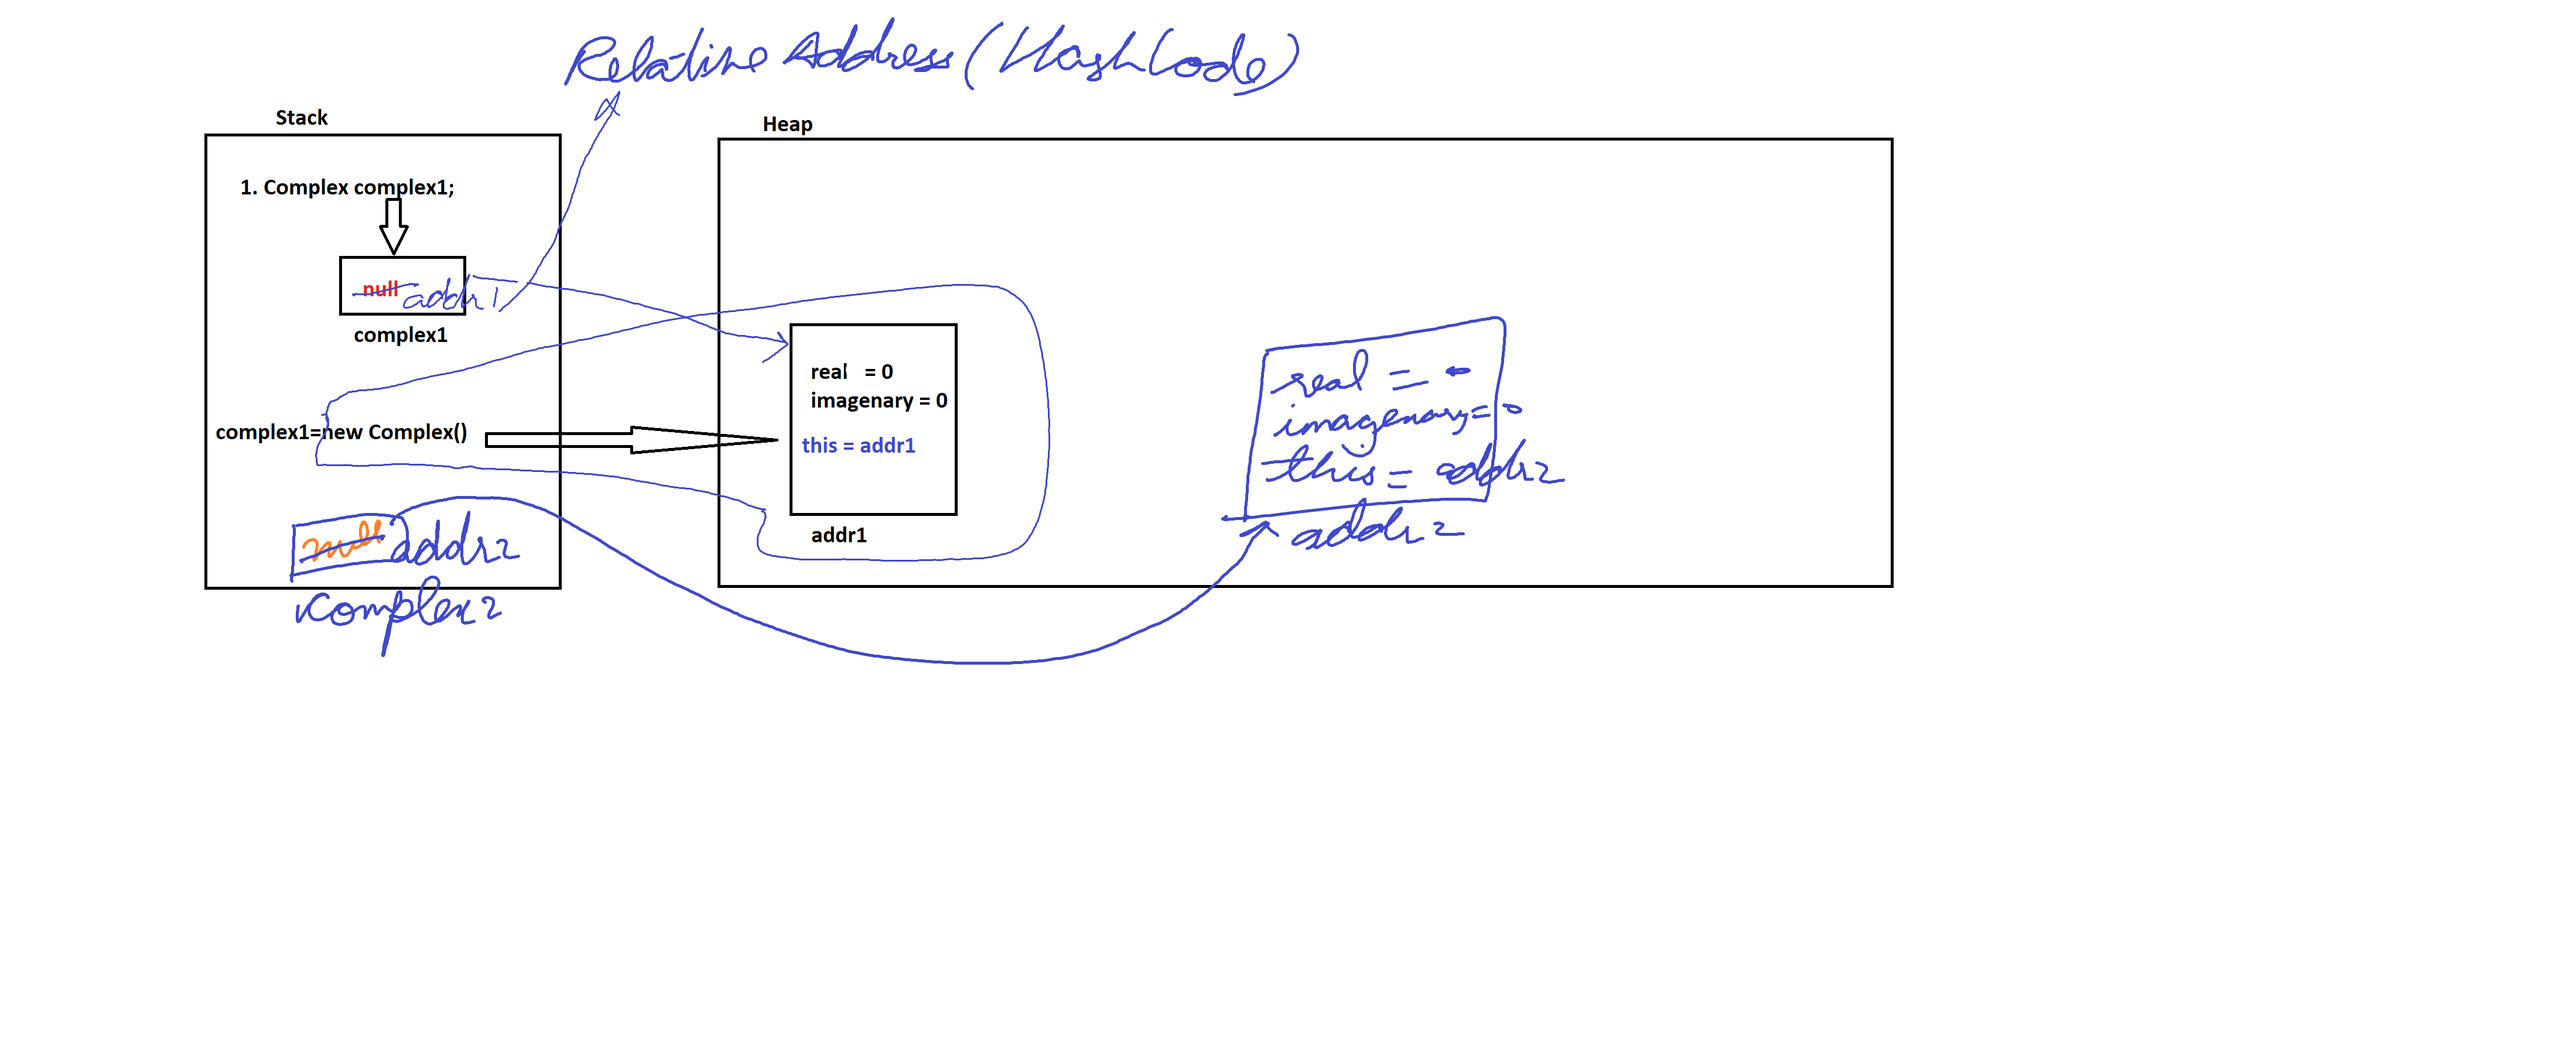
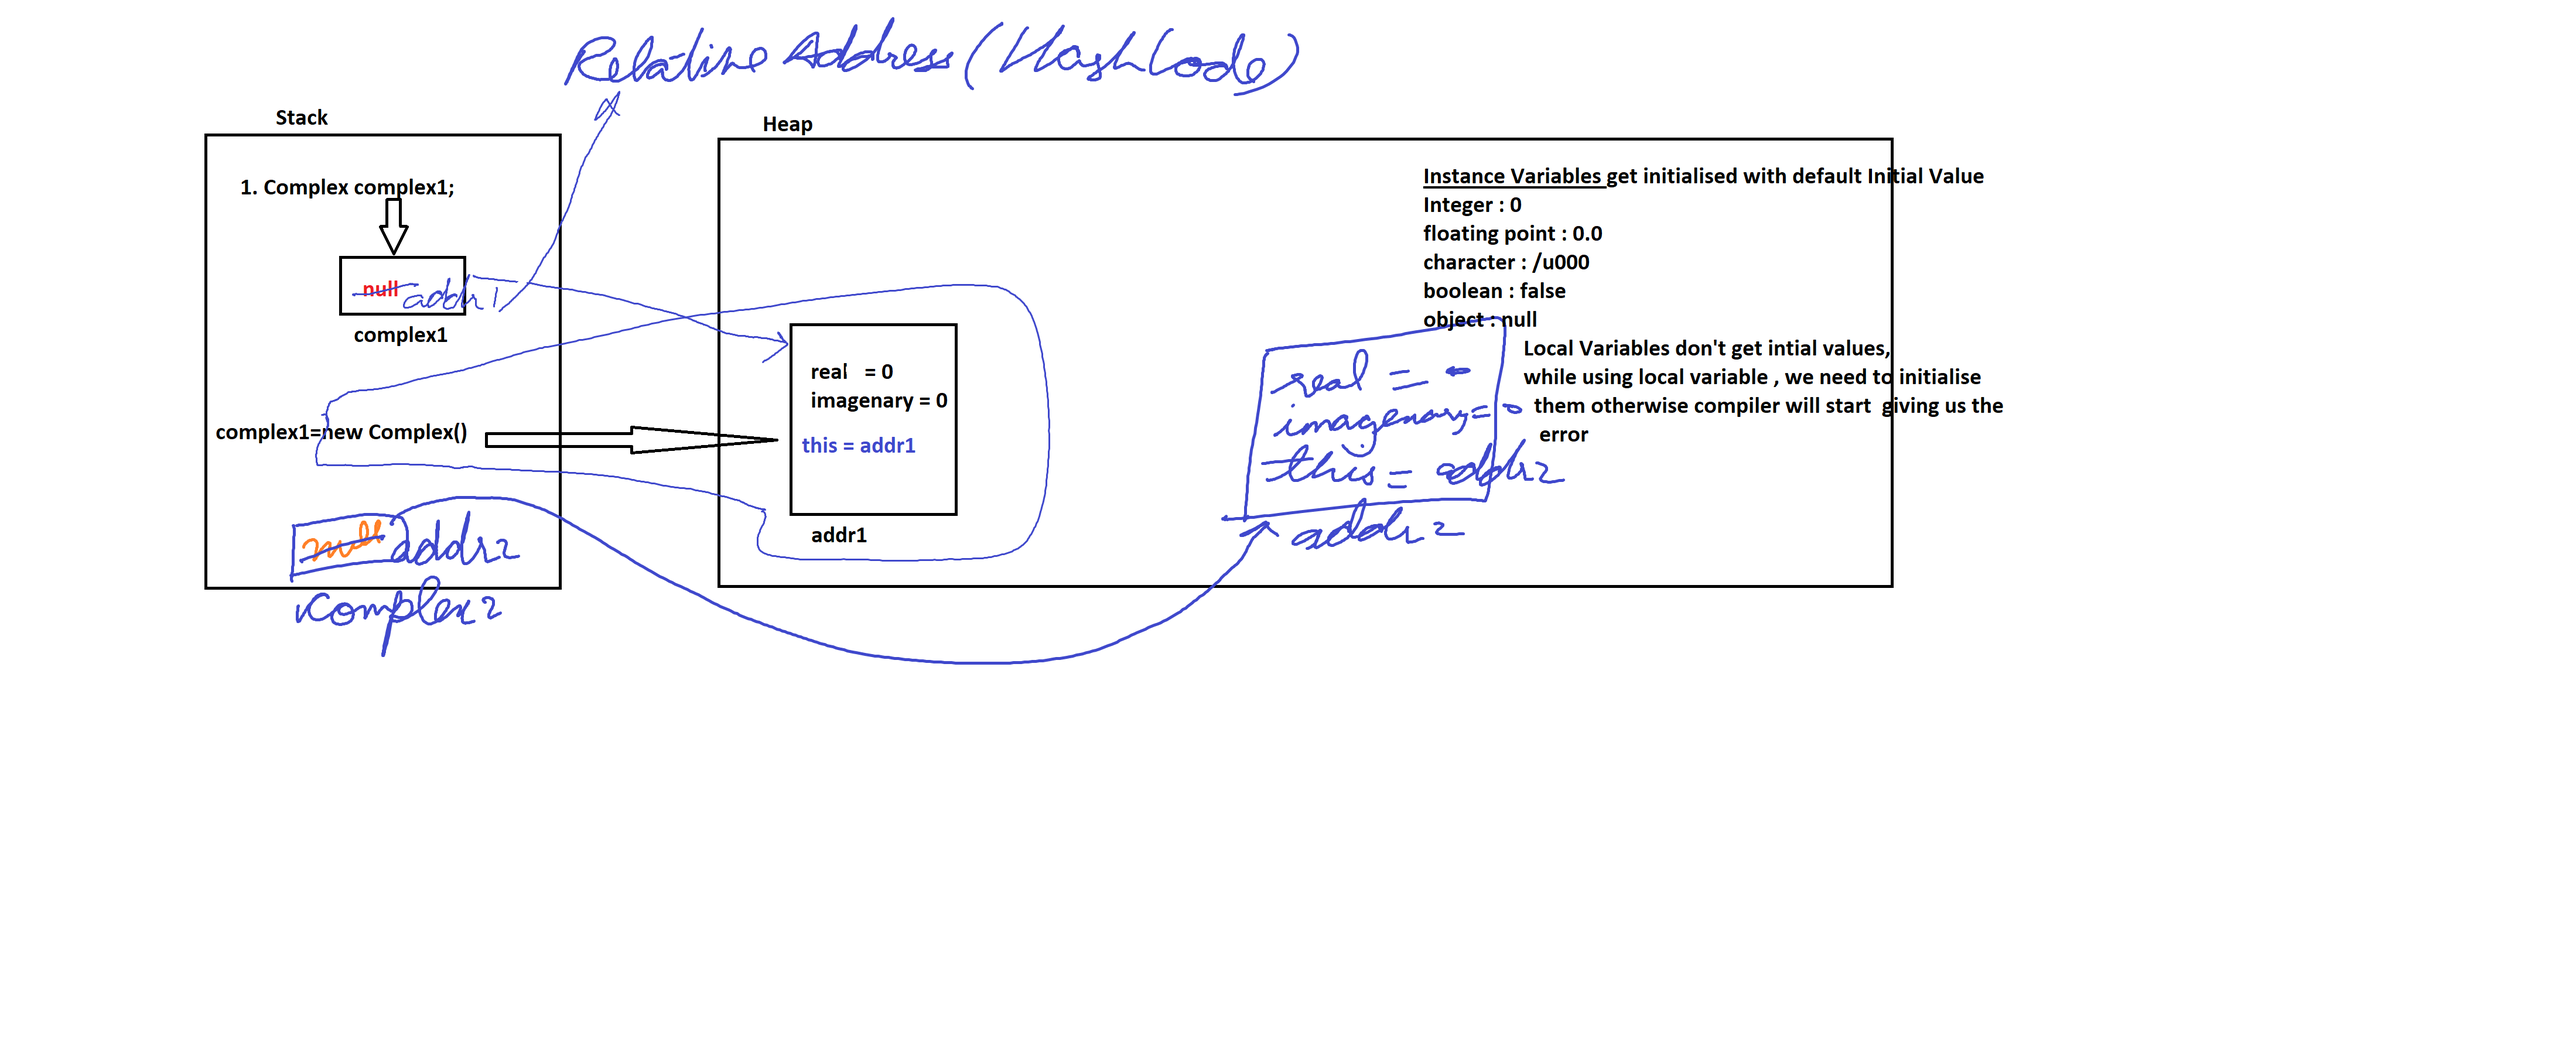
Add files via upload

Changed region(s): [[0.5607, 0.1548, 0.7788, 0.4336]]

diff --git a/Day2/MyConstructorDemoProject/src/com/sujata/demo/Complex.java b/Day2/MyConstructorDemoProject/src/com/sujata/demo/Complex.java
@@ -1,0 +1,66 @@
+package com.sujata.demo;
+/*
+ * Constructors are used to initialize objects while declaring them
+ * Only if class is constructor challenged(without any constructor), 
+ * then only compiler will going to create one zero argument constructor(default constructor) for us otherwise not.
+ * Rules for Constructor
+ * 1. Constructor have same name as that of class name
+ * 2. Constructor can be argumented as well as non argumented
+ * 3. Constructor cannot return any value not even void
+ * 4. Constructor can exist in any scope i.e private, public and default
+ */
+public class Complex {
+
+	private int real,imagenary;
+
+	/*
+	 * Constructor overloading : a class can have multiple constructor,
+	 * and each constructor will be differentiated from one another as per its
+	 * signature (signature means : number and types of arguments and its sequence)
+	 */
+	Complex(int real,int imagenary){
+		this.real=real;
+		this.imagenary=imagenary;
+	}
+	
+	public Complex(int real) {
+		this.real=real;
+		imagenary=6;
+	}
+	
+	private Complex() {
+		
+	}
+	public int getReal() {
+		return real;
+	}
+
+	public void setReal(int real) {
+		this.real = real;
+	}
+
+	public int getImagenary() {
+		return imagenary;
+	}
+
+	public void setImagenary(int imagenary) {
+		this.imagenary = imagenary;
+	}
+	
+	public void display() {
+		System.out.print(real);
+		if(imagenary>0)
+			System.out.println("+"+imagenary+"i");
+		else if(imagenary<0)
+			System.out.println(imagenary+"i");
+	}
+	
+	public Complex sum(Complex complex2) {
+		Complex sumComplex=new Complex();
+		sumComplex.real=this.real+complex2.real;
+		sumComplex.imagenary=this.imagenary+complex2.imagenary;
+		return sumComplex;
+	}
+	
+	
+}

diff --git a/Day2/MyConstructorDemoProject/src/com/sujata/demo/MainComplex.java b/Day2/MyConstructorDemoProject/src/com/sujata/demo/MainComplex.java
@@ -1,0 +1,20 @@
+package com.sujata.demo;
+
+public class MainComplex {
+
+	public static void main(String[] args) {
+		
+		Complex complex1=null;
+		//int i=10;
+		//ClassName objectName=new Construtor(arguments);
+		complex1=new Complex(5,8);
+
+//		complex1.setReal(5);
+//		complex1.setImagenary(8);
+		System.out.print("First Complex Number : ");
+		complex1.display();
+		
+//		Complex complex2=new Complex();
+	}
+
+}

diff --git a/Day2/MyConstructorDemoProject/src/com/sujata/training/OneMoreMainComplex.java b/Day2/MyConstructorDemoProject/src/com/sujata/training/OneMoreMainComplex.java
@@ -1,0 +1,15 @@
+package com.sujata.training;
+
+import com.sujata.demo.Complex;
+
+public class OneMoreMainComplex {
+
+	public static void main(String[] args) {
+
+		Complex complex1=new Complex(5);
+		
+		complex1.display();
+
+	}
+
+}
